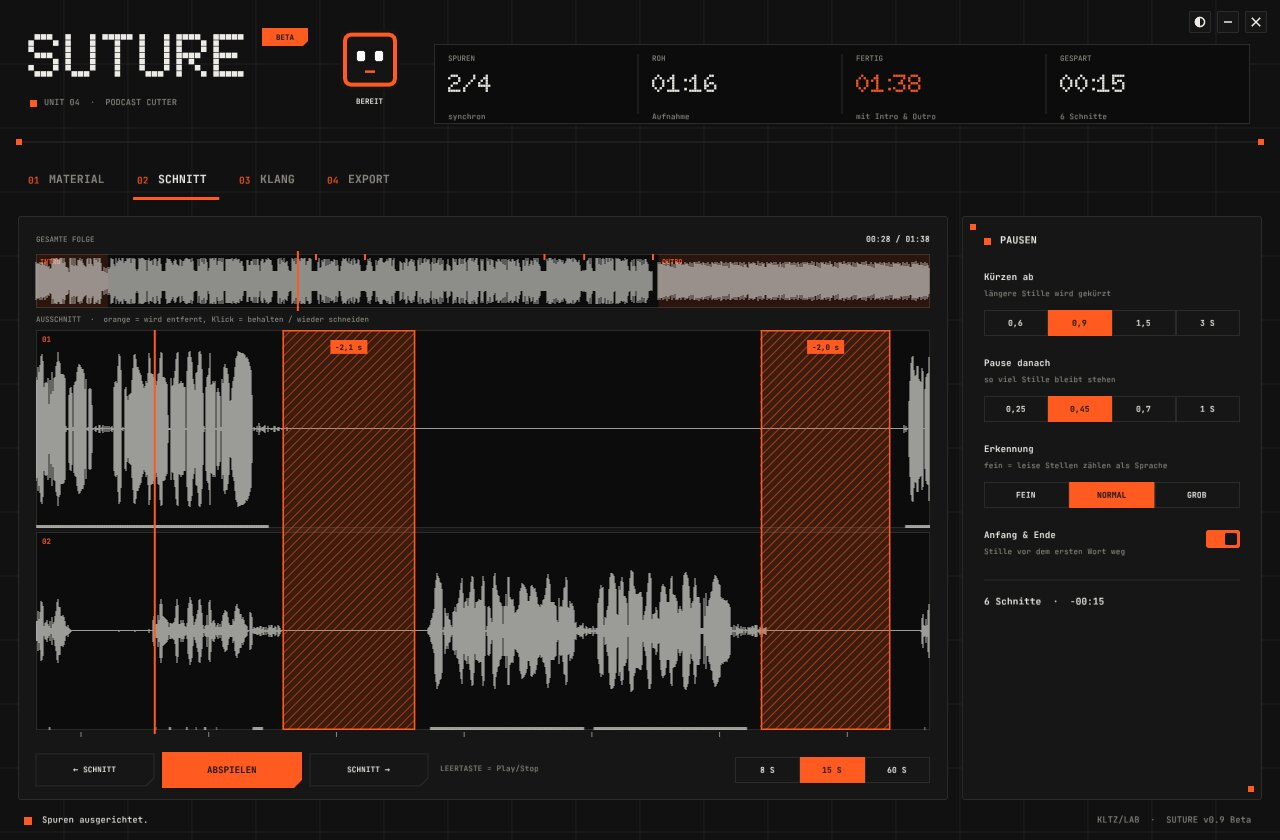
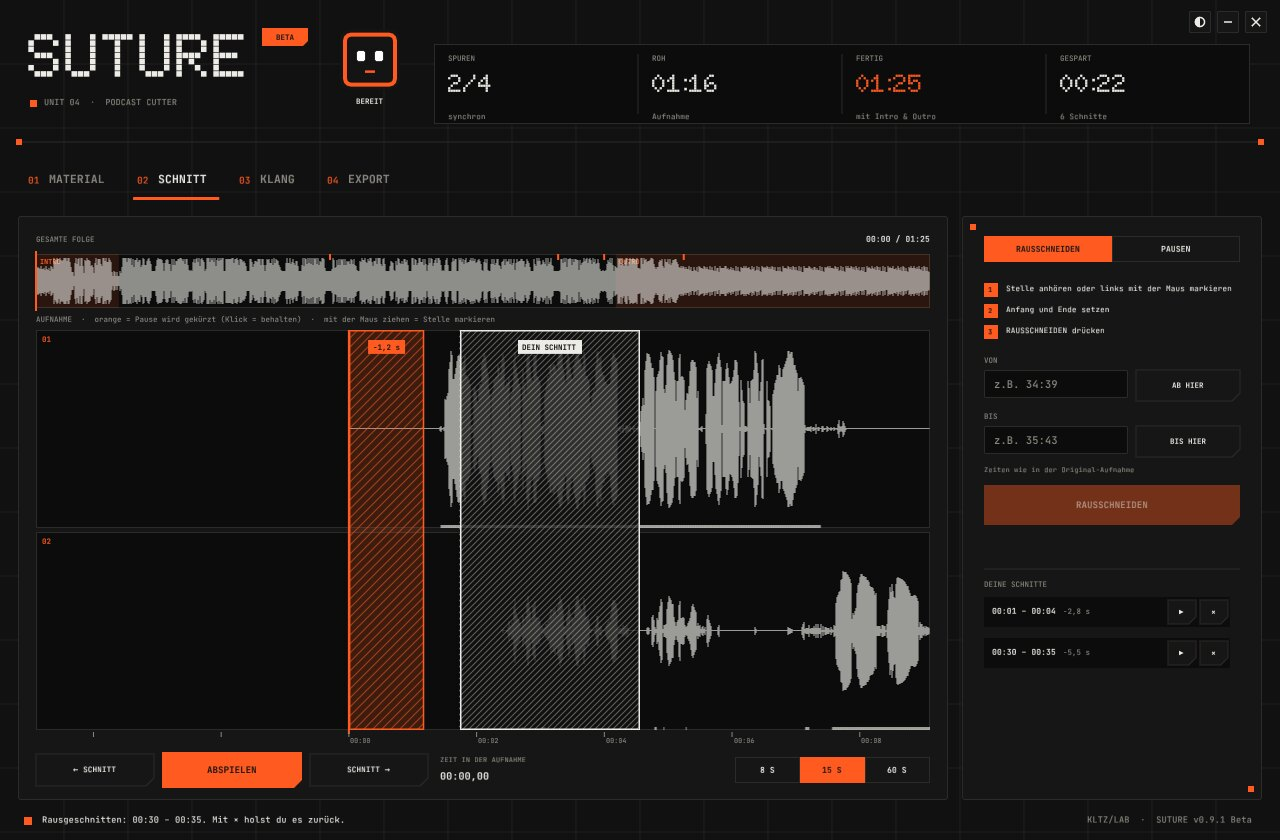
SUTURE 0.9.1: hand cuts, music volume, draggable outro
Claude-Session: https://claude.ai/code/session_01Jzr5w1iMniMsk85TjXu2Vu

diff --git a/index.html b/index.html
@@ -377,7 +377,7 @@ footer p{margin:0 0 6px;max-width:80ch}
       <div class="unit-body">
         <aside class="spec">
           <table>
-            <tr><th>Version</th><td>0.9 Beta</td></tr>
+            <tr><th>Version</th><td>0.9.1 Beta</td></tr>
             <tr><th>Größe</th><td>1,2 MB</td></tr>
             <tr><th>System</th><td>Windows 10/11 x64</td></tr>
             <tr><th>Engine</th><td>Nativ C++, DirectX 11</td></tr>
@@ -402,7 +402,7 @@ footer p{margin:0 0 6px;max-width:80ch}
             </div>
           </div>
           <div class="shot" style="aspect-ratio:1280/840"><img id="sShot" src="img/suture-cut.jpg" alt="SUTURE, Tab Schnitt" width="1280" height="840"></div>
-          <div class="caption" id="sCap">Orange heißt: wird rausgeschnitten. Ein Klick auf eine Pause behält sie.</div>
+          <div class="caption" id="sCap">Orange = Pause wird gekürzt. Eigene Stellen markierst du mit der Maus oder tippst Von/Bis ein.</div>
         </div>
       </div>
     </div>
@@ -467,8 +467,8 @@ const TOOLS = [
[1 lines of base64/hex data omitted]
   { id: 'digest', no: '03', name: 'DIGEST', what: 'Download-Sortierer', status: 'beta', version: '0.9 Beta', tag: 'digest-v0.9',
[1 lines of base64/hex data omitted]
-  { id: 'suture', no: '04', name: 'SUTURE', what: 'Podcast-Schnitt', status: 'beta', version: '0.9 Beta', tag: 'suture-v0.9',
[1 lines of base64/hex data omitted]
+  { id: 'suture', no: '04', name: 'SUTURE', what: 'Podcast-Schnitt', status: 'beta', version: '0.9.1 Beta', tag: 'suture-v0.9.1',
[1 lines of base64/hex data omitted]
   { id: null, no: '05', name: 'NÄCHSTES TOOL', what: 'In Arbeit', status: 'wip' },
 ];
 
@@ -553,9 +553,9 @@ $('#rules').innerHTML = [
 
 // SUTURE screenshots + steps
 const S_VIEW = {
-  cut: ['SUTURE, Tab Schnitt', 'Orange heißt: wird rausgeschnitten. Ein Klick auf eine Pause behält sie.'],
+  cut: ['SUTURE, Tab Schnitt', 'Orange = Pause wird gekürzt. Eigene Stellen markierst du mit der Maus oder tippst Von/Bis ein.'],
   material: ['SUTURE, Tab Material', 'Spuren reinziehen. Unterschiedlich lange Aufnahmen richtet SUTURE selbst aus.'],
-  sound: ['SUTURE, Tab Klang', 'Intro-Musik, Ausblende, Outro und Lautheit, alles mit festen Stufen statt Regler-Gefummel.'],
+  sound: ['SUTURE, Tab Klang', 'Musik-Lautstärke wählen, das Outro einfach an die richtige Stelle unter das letzte „Tschüss“ ziehen.'],
   export: ['SUTURE, Tab Export', 'MP3 für Spotify & Co. und WAV als Master, mit Titel im ID3-Tag.'],
   light: ['SUTURE, Tab Schnitt, hell', 'Hell und Dunkel, wie alle Units der Reihe.'],
 };
@@ -566,8 +566,9 @@ for (const v of Object.keys(S_VIEW)) { const i = new Image(); i.src = `img/sutur
 $('#sutureSteps').innerHTML = [
   'Spuren rein: 1–4 Sprecher, versetzte Aufnahmen werden automatisch ausgerichtet.',
   'Pausen raus: geschnitten wird nur, wo alle gleichzeitig still sind. So bleibt alles synchron.',
-  'Intro: Musik vorweg, leiser unter der Stimme, danach ausblenden.',
-  'Outro: der Intro-Song kommt automatisch ans Ende.',
+  'Eigene Schnitte: Versprecher markieren oder z.B. 34:39–35:43 eintippen, raus damit.',
+  'Intro: Musik in deiner Lautstärke, sanft leiser unter der Stimme, Ausblende nach dem letzten Wort.',
+  'Outro: startet unter dem letzten „Tschüss“, Startpunkt per Maus verschiebbar.',
   'Klang: Sprecher gleich laut, Übersprechen gedämpft, −16 LUFS.',
   'Export: MP3 + WAV. Deine Originale bleiben unangetastet.',
 ].map((r, i) => `<li><span>${String(i + 1).padStart(2, '0')}</span>${r}</li>`).join('');
